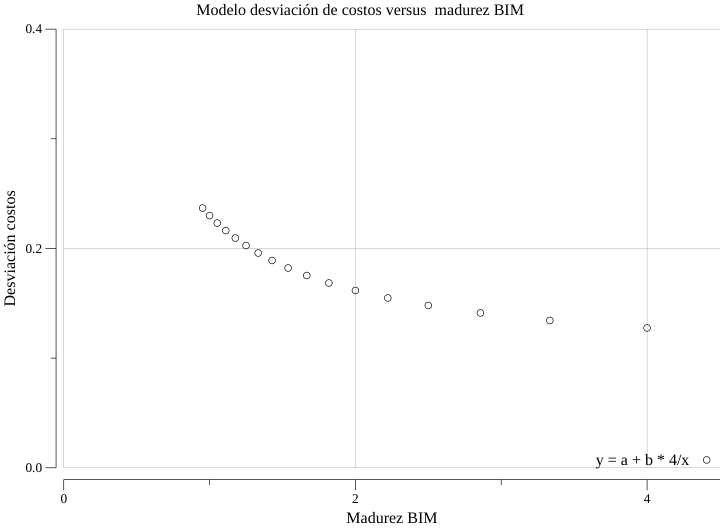
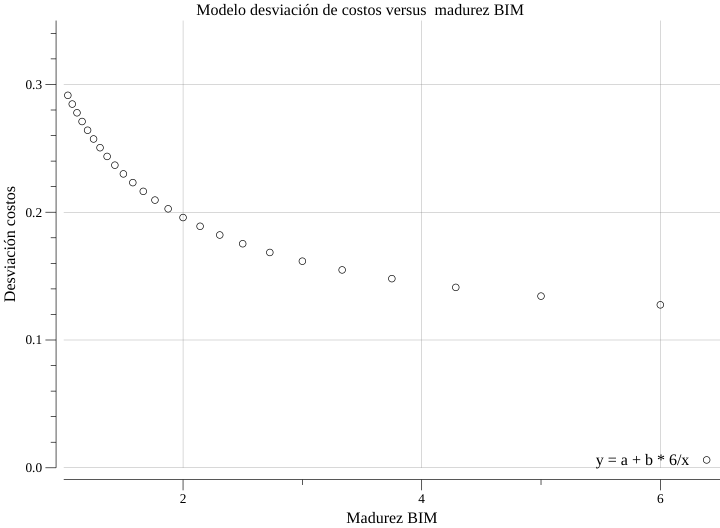
New update 1626639227

diff --git a/main.go b/main.go
@@ -24,7 +24,7 @@ var (
 
 func main() {
 	flag.StringVar(&flagFile, "file", "data.csv", "file is the name of the csv file")
-	flag.Float64Var(&flagScale, "mrate", 4.0, "mrate is the maximum rating according to the sale of BIM measurement used")
+	flag.Float64Var(&flagScale, "rmax", 4.0, "mrate is the maximum rating according to the sale of BIM measurement used")
 	flag.Parse()
 
 	// Abrimos el archivo data.csv
@@ -63,10 +63,6 @@ func main() {
 	numObservations := float64(len(Xind))                          // N observations
 	pvalue := twoSidedPValue(corrCoef, numObservations)
 
-	fmt.Println("\nXi  : Madurez BIM")
-	fmt.Printf("%v/Xi: Indicador de inmadurez BIM\n", flagScale)
-	fmt.Println("Yi  : Crecimiento de costos de construcción")
-
 	fmt.Println("\n=================================")
 	fmt.Printf("%10s %10s %7v/Xi\n", "Xi", "Yi", flagScale)
 	fmt.Println("---------------------------------")
@@ -74,6 +70,10 @@ func main() {
 		fmt.Printf("%10.2f %10.2f %10.2f\n", X[i], Y[i], Xind[i])
 	}
 	fmt.Println("---------------------------------")
+
+	fmt.Println("\nXi  : Madurez BIM")
+	fmt.Printf("%v/Xi: Indicador de inmadurez BIM\n", flagScale)
+	fmt.Println("Yi  : Crecimiento de costos de construcción")
 
 	fmt.Println("\n============================================")
 	fmt.Println("         Coeficiente    p-value    R-squared")
@@ -87,10 +87,21 @@ func main() {
 	fmt.Printf("     Yi = %.4f + %.4f * (%v / Xi) \n", alpha, beta, flagScale)
 	fmt.Println("--------------------------------------------")
 
-	// ==========================================================
-	// PLOTTING STUFF HAPPENS FROM HERE ON
-	// ==========================================================
+	// PLOT
+	modelPlot(flagScale, alpha, beta)
+}
 
+func makeRange(min, max int) []float64 {
+	a := make([]float64, (max-min+1)*5)
+	a[0] = 1.0
+	for i := 1; i < len(a); i++ {
+
+		a[i] = 0.2 + a[i-1]
+	}
+	return a
+}
+
+func modelPlot(scale, alpha, beta float64) error {
 	p, err := plot.New()
 	if err != nil {
 		panic(err)
@@ -101,10 +112,10 @@ func main() {
 	p.Add(plotter.NewGrid())
 
 	// we generate the point for our estimated function
-	xvalues := []float64{1, 1.2, 1.4, 1.6, 1.8, 2, 2.2, 2.4, 2.6, 2.8, 3, 3.2, 3.4, 3.6, 3.8, 4, 4.2}
+	xvalues := makeRange(1, int(flagScale))
 	pts := make(plotter.XYs, len(xvalues))
 	for i := range pts {
-		pts[i].X = 4 / xvalues[i]
+		pts[i].X = scale / xvalues[i]
 		pts[i].Y = alpha + beta*xvalues[i]
 	}
 
@@ -114,17 +125,18 @@ func main() {
 	}
 
 	p.Add(s)
-	p.Legend.Add("y = a + b * 4/x", s)
+	p.Legend.Add(fmt.Sprintf("y = a + b * %v/x", flagScale), s)
 
-	p.X.Min = 0
-	p.X.Max = 4.50
+	p.X.Min = 1
+	p.X.Max = flagScale + 0.5
 	p.Y.Min = 0
-	p.Y.Max = 0.4
+	p.Y.Max = 0.35
 
 	// we save to a png file
-	if err := p.Save(7.5*vg.Inch, 5.5*vg.Inch, "ols_function.png"); err != nil {
+	if err := p.Save(7.5*vg.Inch, 5.5*vg.Inch, "model_estimate_plot.png"); err != nil {
 		panic(err)
 	}
+	return err
 }
 
 func twoSidedPValue(r float64, n float64) float64 {
